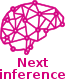
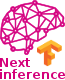
tflite-cv-apps: update application
Update the icons and fix some typo.

Changed region(s): [[0.1538, 0.5, 0.9538, 0.85], [0.0, 0.725, 0.1231, 0.85]]

diff --git a/recipes-samples/tflite-cv-apps/files/applications/bin/objdetect_tfl_gst_gtk.cc b/recipes-samples/tflite-cv-apps/files/applications/bin/objdetect_tfl_gst_gtk.cc
@@ -50,7 +50,6 @@
 
 #include "wrapper_tfl.h"
 
-
 /* Application parameters */
 std::vector<std::string> dir_files;
 std::string image_dir_str;
@@ -167,7 +166,6 @@ static void gui_compute_frame_position(GdkWindow *window,
 		window_height = gdk_window_get_height(window) + WESTON_PANEL_THICKNESS;
 	} else {
 		window_height = gdk_window_get_height(window) - BRAIN_AREA_HEIGHT;
-		offset_x = BRAIN_AREA_WIDTH;
 		offset_y = BRAIN_AREA_HEIGHT;
 	}
 
@@ -299,6 +297,7 @@ static gboolean gui_draw_cb(GtkWidget *widget,
 		cv::Size size_nn(data->nn_input_width, data->nn_input_height);
 		cv::resize(img_bgr, img_nn, size_nn);
 		cv::cvtColor(img_nn, img_nn, cv::COLOR_BGR2RGB);
+
 		nn_inference(img_nn.data);
 	}
 
@@ -426,7 +425,7 @@ static void gui_create(CustomData *data)
 	GtkWidget *drawing_area;
 
 	if (data->preview_enabled)
-		data->brain_icon = cairo_image_surface_create_from_png("/usr/local/demo-ai/computer-vision/tflite-object-detection/resources/ST7079_AI_neural_pink_65x55.png");
+		data->brain_icon = cairo_image_surface_create_from_png("/usr/local/demo-ai/computer-vision/tflite-object-detection/resources/ST7079_AI_neural_pink_65x80.png");
 	else
 		data->brain_icon = cairo_image_surface_create_from_png("/usr/local/demo-ai/computer-vision/tflite-object-detection/resources/ST7079_AI_neural_pink_65x80_next_inference.png");
 	data->exit_icon = cairo_image_surface_create_from_png("/usr/local/demo-ai/computer-vision/tflite-object-detection/resources/close_50x50_pink.png");
@@ -867,8 +866,6 @@ int main(int argc, char *argv[])
 			return 0;
 		}
 	} else {
-		data.frame_width  = std::stoi(camera_width_str);
-		data.frame_height = std::stoi(camera_height_str);
 		data.preview_enabled = false;
 
 		/* Check if directory is empty */

diff --git a/recipes-samples/tflite-cv-apps/files/applications/bin/label_tfl_gst_gtk.cc b/recipes-samples/tflite-cv-apps/files/applications/bin/label_tfl_gst_gtk.cc
@@ -166,7 +166,6 @@ static void gui_compute_frame_position(GdkWindow *window,
 		window_height = gdk_window_get_height(window) + WESTON_PANEL_THICKNESS;
 	} else {
 		window_height = gdk_window_get_height(window) - BRAIN_AREA_HEIGHT;
-		offset_x = BRAIN_AREA_WIDTH;
 		offset_y = BRAIN_AREA_HEIGHT;
 	}
 
@@ -299,6 +298,7 @@ static gboolean gui_draw_cb(GtkWidget *widget,
 		cv::Size size_nn(data->nn_input_width, data->nn_input_height);
 		cv::resize(img_bgr, img_nn, size_nn);
 		cv::cvtColor(img_nn, img_nn, cv::COLOR_BGR2RGB);
+
 		nn_inference(img_nn.data);
 	}
 
@@ -415,7 +415,7 @@ static void gui_create(CustomData *data)
 	GtkWidget *drawing_area;
 
 	if (data->preview_enabled)
-		data->brain_icon = cairo_image_surface_create_from_png("/usr/local/demo-ai/computer-vision/tflite-image-classification/resources/ST7079_AI_neural_pink_65x55.png");
+		data->brain_icon = cairo_image_surface_create_from_png("/usr/local/demo-ai/computer-vision/tflite-image-classification/resources/ST7079_AI_neural_pink_65x80.png");
 	else
 		data->brain_icon = cairo_image_surface_create_from_png("/usr/local/demo-ai/computer-vision/tflite-image-classification/resources/ST7079_AI_neural_pink_65x80_next_inference.png");
 	data->exit_icon = cairo_image_surface_create_from_png("/usr/local/demo-ai/computer-vision/tflite-image-classification/resources/close_50x50_pink.png");
@@ -856,8 +856,6 @@ int main(int argc, char *argv[])
 			return 0;
 		}
 	} else {
-		data.frame_width  = std::stoi(camera_width_str);
-		data.frame_height = std::stoi(camera_height_str);
 		data.preview_enabled = false;
 
 		/* Check if directory is empty */
